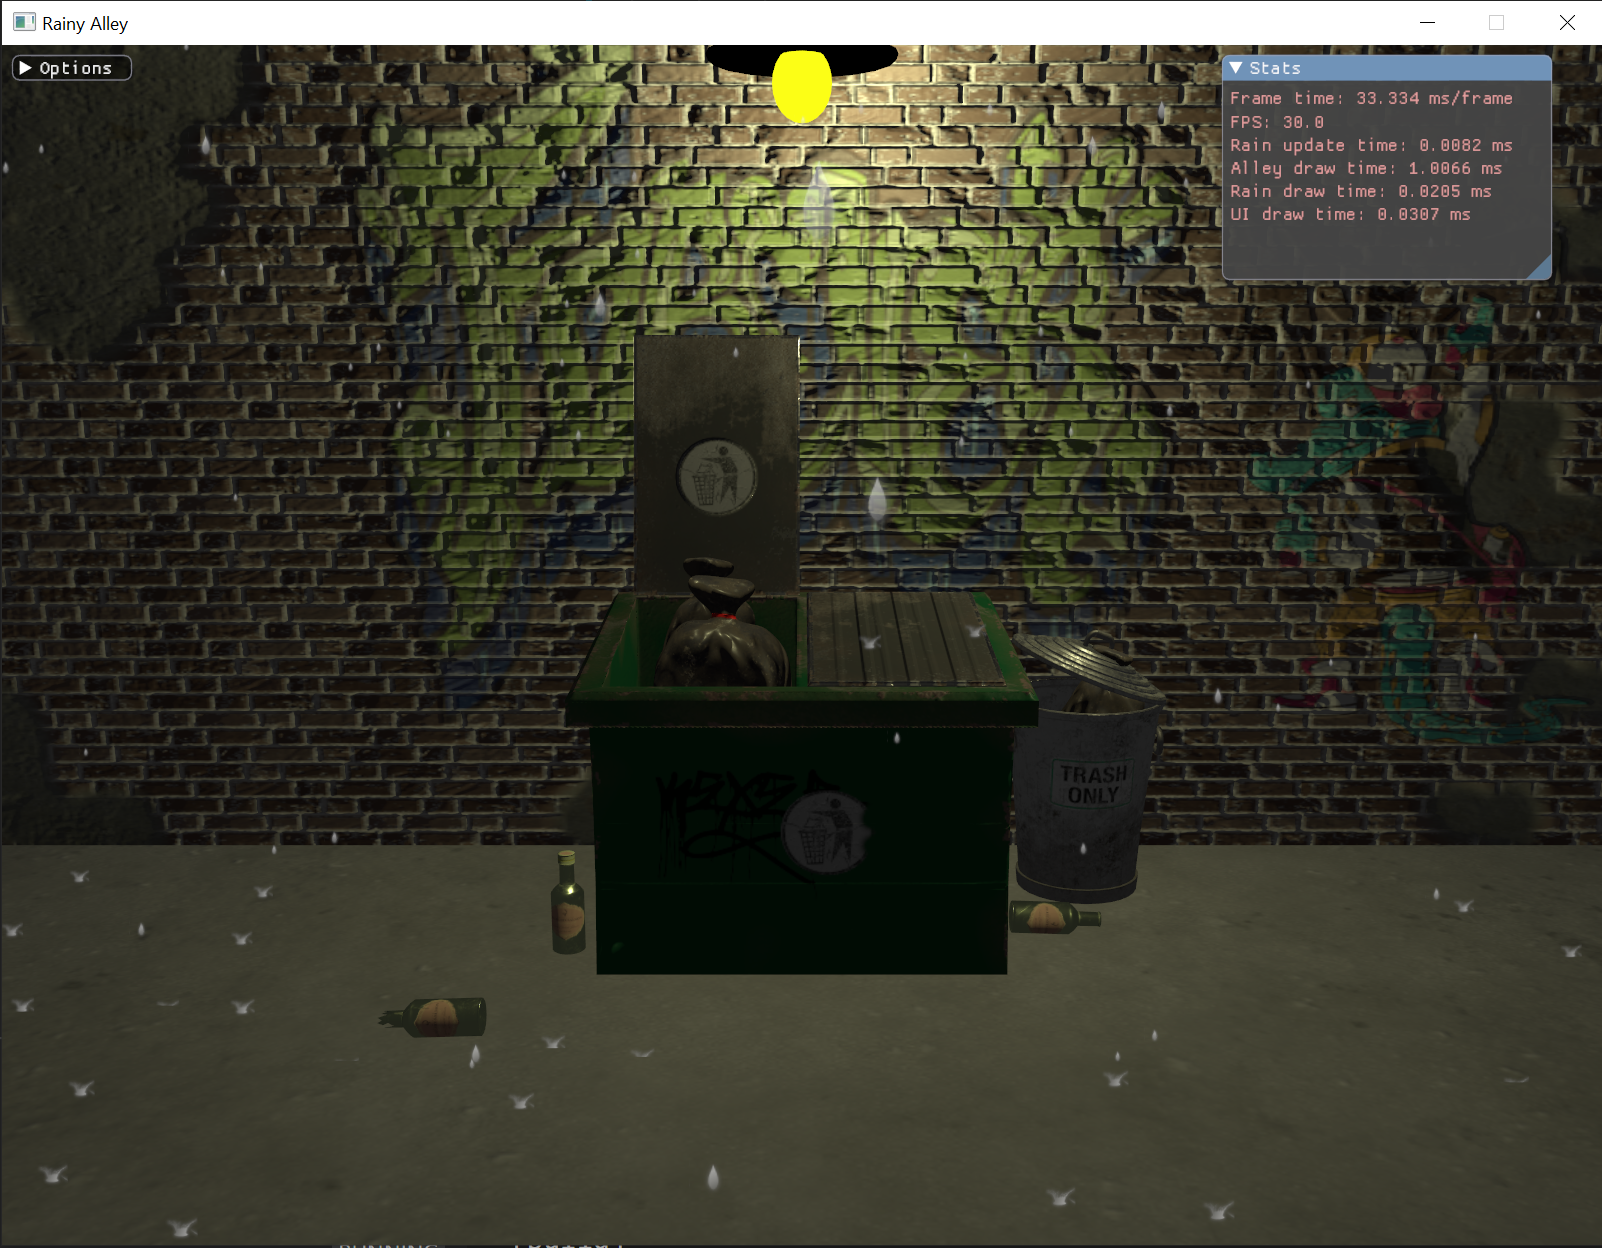
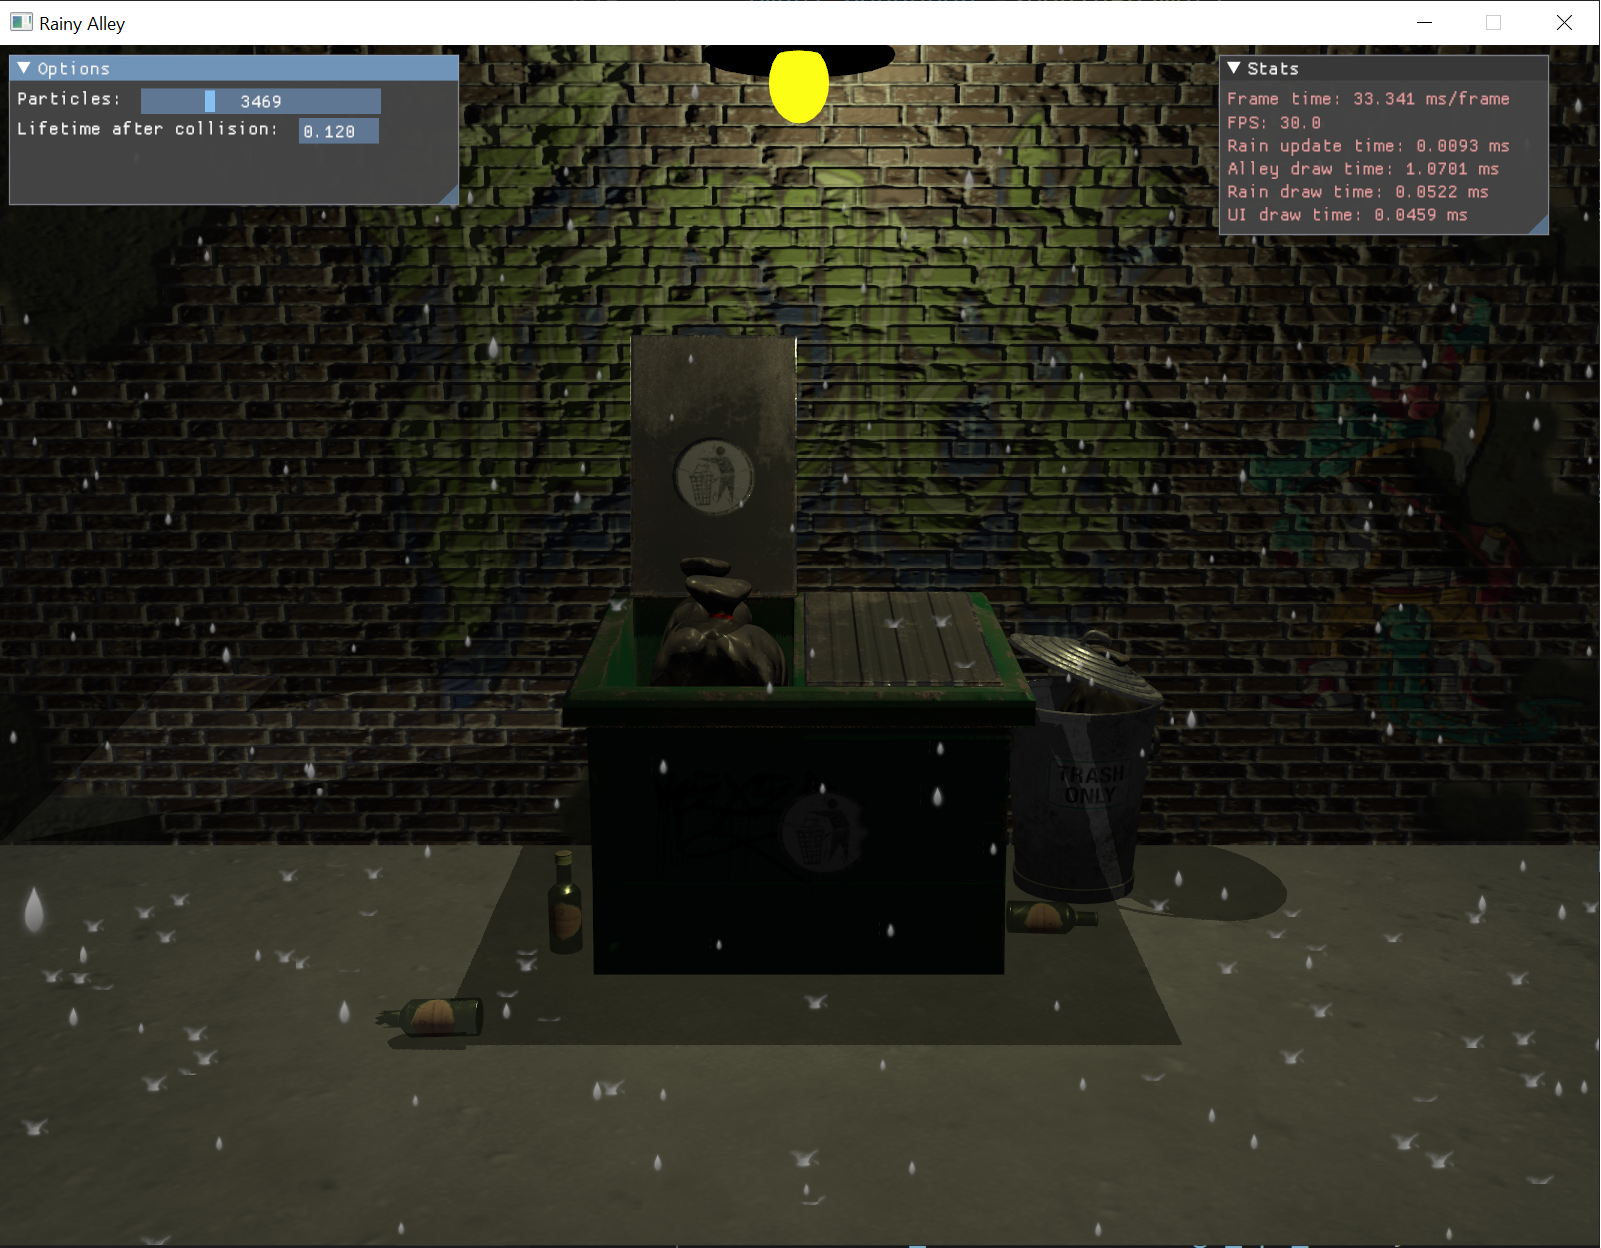
Rainy Alley options: - change the number of particles - set the lifetime after collision (in s)

diff --git a/apps/rainy_alley/rainy_alley.cpp b/apps/rainy_alley/rainy_alley.cpp
@@ -47,6 +47,8 @@ private:
 
 	// options
 	float camera_fov_deg_ = 45.0f;
+	int number_of_particles_ = 1000;
+	float lifetime_after_collision_ = 0.25f;
 	
 };
 
@@ -97,25 +99,9 @@ bool RainyAlley::loadAssets() {
 	shaders_[rain_geometry_shader->getName()] = std::move(rain_geometry_shader);
 	shaders_[rain_fragment_shader->getName()] = std::move(rain_fragment_shader);
 
-	ParticleEmitterConfig emitter_config;
-	emitter_config.name = "rain_drops_emitter";
-	emitter_config.starting_transform = glm::identity<glm::mat4>();
-	emitter_config.min_box_extent = glm::vec3(-10.0f, -8.0, 15.0f);
-	emitter_config.max_box_extent = glm::vec3(2.0f, 8.0, 20.0f);
-	emitter_config.min_starting_velocity = glm::vec3(0.0f, 0.0f, -10.0f);
-	emitter_config.max_starting_velocity = glm::vec3(0.0f, 0.0f, 0.0f);
-	emitter_config.lifetime_after_collision = 0.25f;
-	emitter_config.texture_atlas = "textures/rain_drops.png";
-
 #ifndef NDEBUG
 	vulkan_backend_.enableTimestampQueries(8);
-	emitter_config.profile = true;
-	emitter_config.start_query_num = 0;
-	emitter_config.stop_query_num = 1;
 #endif
-	 
-	rain_drops_emitter_ = ParticleEmitter::createParticleEmitter(emitter_config, &vulkan_backend_);
-	rain_drops_emitter_->createParticles(1000, "shaders/rainfall_cp.spv");
 
 	auto extent = vulkan_backend_.getSwapChainExtent();
 	scene_manager_ = SceneManager::create(&vulkan_backend_);
@@ -151,6 +137,25 @@ bool RainyAlley::setupScene() {
 	pool_config.image_storage_buffers_count *= vulkan_backend_.getSwapChainSize();
 	
 	vulkan_backend_.createDescriptorPool(pool_config);
+
+
+	ParticleEmitterConfig emitter_config;
+	emitter_config.name = "rain_drops_emitter";
+	emitter_config.starting_transform = glm::identity<glm::mat4>();
+	emitter_config.min_box_extent = glm::vec3(-10.0f, -8.0, 15.0f);
+	emitter_config.max_box_extent = glm::vec3(2.0f, 8.0, 20.0f);
+	emitter_config.min_starting_velocity = glm::vec3(0.0f, 0.0f, -10.0f);
+	emitter_config.max_starting_velocity = glm::vec3(0.0f, 0.0f, 0.0f);
+	emitter_config.lifetime_after_collision = lifetime_after_collision_;
+	emitter_config.texture_atlas = "textures/rain_drops.png";
+#ifndef NDEBUG
+	emitter_config.profile = true;
+	emitter_config.start_query_num = 0;
+	emitter_config.stop_query_num = 1;
+#endif
+
+	rain_drops_emitter_ = ParticleEmitter::createParticleEmitter(emitter_config, &vulkan_backend_);
+	rain_drops_emitter_->createParticles(number_of_particles_, "shaders/rainfall_cp.spv");
 
 	RenderPassConfig render_pass_config;
 	render_pass_config.name = "Main Pass";
@@ -212,11 +217,11 @@ bool RainyAlley::setupScene() {
 }
 
 void RainyAlley::cleanupSwapChainAssets() {
+	rain_drops_emitter_.reset();
+
 	imgui_renderer_->cleanupGraphicsPipeline();
 
 	scene_manager_->deleteUniforms();
-	
-	rain_drops_emitter_->deleteUniformBuffers();
 
 	vulkan_backend_.destroyRenderPass(render_pass_);
 	vulkan_backend_.destroyPipeline(alley_graphics_pipeline_);
@@ -422,10 +427,28 @@ void RainyAlley::drawUi() {
 	ImGui::SetNextWindowPos(ImVec2(10, 10));
 
 	const auto high_dpi_scale = imgui_renderer_->getHighDpiScale();
-	ImGui::SetNextWindowSizeConstraints(ImVec2(80 * high_dpi_scale, 80 * high_dpi_scale), ImVec2(100 * high_dpi_scale, 150 * high_dpi_scale));
+	ImGui::SetNextWindowSizeConstraints(ImVec2(300 * high_dpi_scale, 100 * high_dpi_scale), ImVec2(450 * high_dpi_scale, 150 * high_dpi_scale));
 
 	ImGui::Begin("Options");                   
 	
+	ImGui::Text("Particles: ");
+	ImGui::SameLine();
+	ImGui::PushItemWidth(240);
+	ImGui::SliderInt("##Particles", &number_of_particles_, 1000, 10000);
+	ImGui::PopItemWidth();
+	if (ImGui::IsItemDeactivatedAfterEdit()) {
+		force_recreate_swapchain_ = true;
+	}
+	
+	ImGui::Text("Lifetime after collision: ");
+	ImGui::SameLine();
+	ImGui::PushItemWidth(80);
+	ImGui::InputFloat("##Lifetime", &lifetime_after_collision_, 0, 0, "%.3f");
+	ImGui::PopItemWidth();
+	if (ImGui::IsItemDeactivatedAfterEdit()) {
+		force_recreate_swapchain_ = true;
+	}
+
 	ImGui::End();
 
 	auto extent = vulkan_backend_.getSwapChainExtent();

diff --git a/vulkan/scene_manager.cpp b/vulkan/scene_manager.cpp
@@ -488,6 +488,14 @@ void SceneManager::deleteUniforms() {
     }
 
     scene_depth_buffer_.reset();
+    vk_descriptor_sets_.clear();
+
+    if (shadows_enabled_) {
+        backend_->destroyRenderPass(shadow_map_render_pass_);
+	    backend_->destroyPipeline(shadow_map_pipeline_);
+	    backend_->destroyUniformBuffer(shadow_map_data_buffer_);
+        vk_shadow_descriptor_sets_.clear();
+    }
 }
 
 void SceneManager::createDescriptorSets(const std::string& pipeline_name, const std::map<uint32_t, VkDescriptorSetLayout>& descriptor_set_layouts) {

diff --git a/vulkan/vulkan_app.cpp b/vulkan/vulkan_app.cpp
@@ -134,6 +134,14 @@ bool VulkanApp::recreateSwapChain() {
 }
 
 void VulkanApp::drawFrame() {
+    if (force_recreate_swapchain_) {
+        if (!recreateSwapChain()) {
+            std::cerr << "Failed to re-create swap chain!" << std::endl;
+        }
+        force_recreate_swapchain_ = false;
+        return;
+    }
+
     uint32_t next_swapchain_image = 0;
     VkResult result = vulkan_backend_.startNextFrame(next_swapchain_image, window_resized_);
 

diff --git a/vulkan/vulkan_app.hpp b/vulkan/vulkan_app.hpp
@@ -41,6 +41,7 @@ protected:
     const uint32_t base_height_ = 600;
     GLFWwindow* window_ = nullptr;
     bool window_resized_ = false;
+    bool force_recreate_swapchain_ = false;
     std::string window_title_;
 
     VulkanBackend vulkan_backend_;
